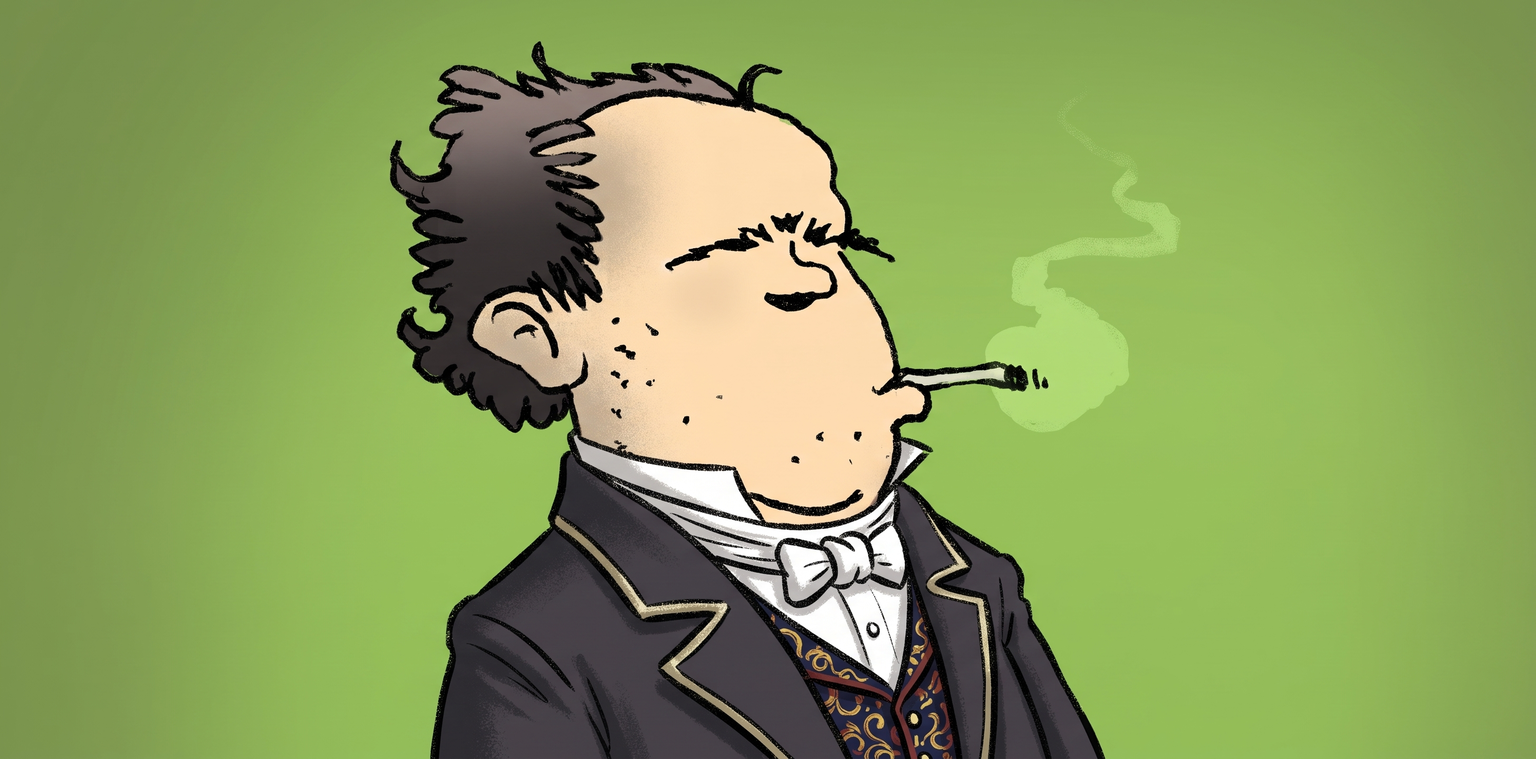
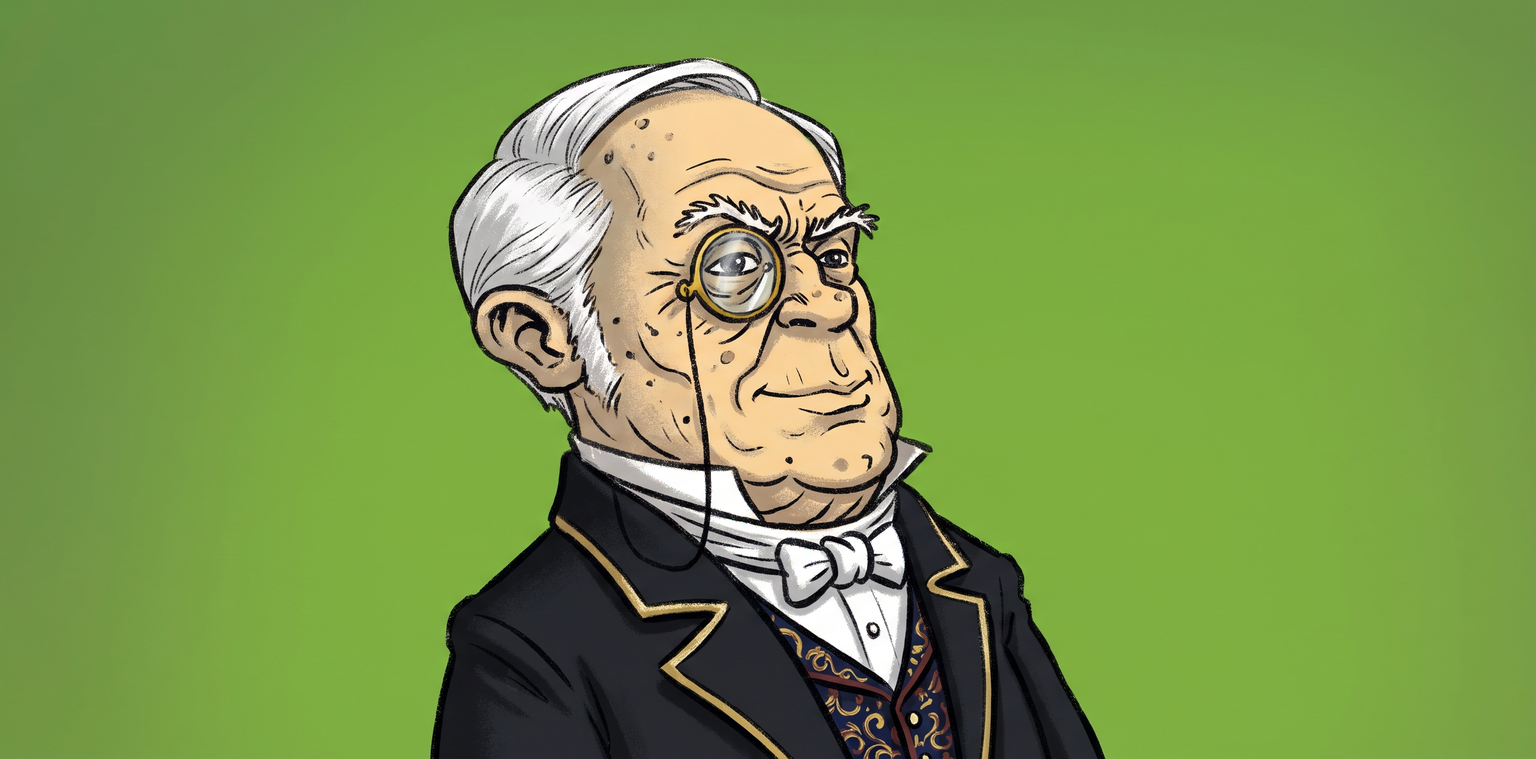
New splash image: the monocled butler replaces the old pair

diff --git a/upcoming-changes.md b/upcoming-changes.md
@@ -400,6 +400,10 @@ Suite 105 passed (2026-11-19).
   same, junk tags, daily limit, future and unreadable records, off, dev checkout, unreachable, the hook;
   the hook check seen failing without the wiring). Checked once against GitHub. README, setup's report,
   repo CLAUDE.md. Suite 120 passed.
+- New splash image (2026-11-19, from new.md): the user's new pair (an elderly butler with a monocle, on
+  green) replaces `docs/images/jeeves-butler.jpg` (1366x675, in the README) and `jeeves-butler-full.jpg`
+  (2912x1440) under the same names; README alt text updated. The full image carries Google's AI content
+  credentials (C2PA), no personal data.
 
 ## Review text gaps (found by the 2026-11-19 dry run; older text, not this phase's)
 

diff --git a/README.md b/README.md
@@ -2,7 +2,7 @@
 
 **Your Claude Code, a little wiser with every session.**
 
-![Jeeves, a butler in a dark tailcoat and white bow tie](docs/images/jeeves-butler.jpg)
+![Jeeves, an elderly butler with a monocle, white bow tie and dark tailcoat](docs/images/jeeves-butler.jpg)
 
 > **Just work as usual.** Now and then, run `/jeeves:update` (or `/jeeves`): Jeeves reviews the session and
 > the memories Claude saved in your projects, keeps what is worth learning, and writes it into your
